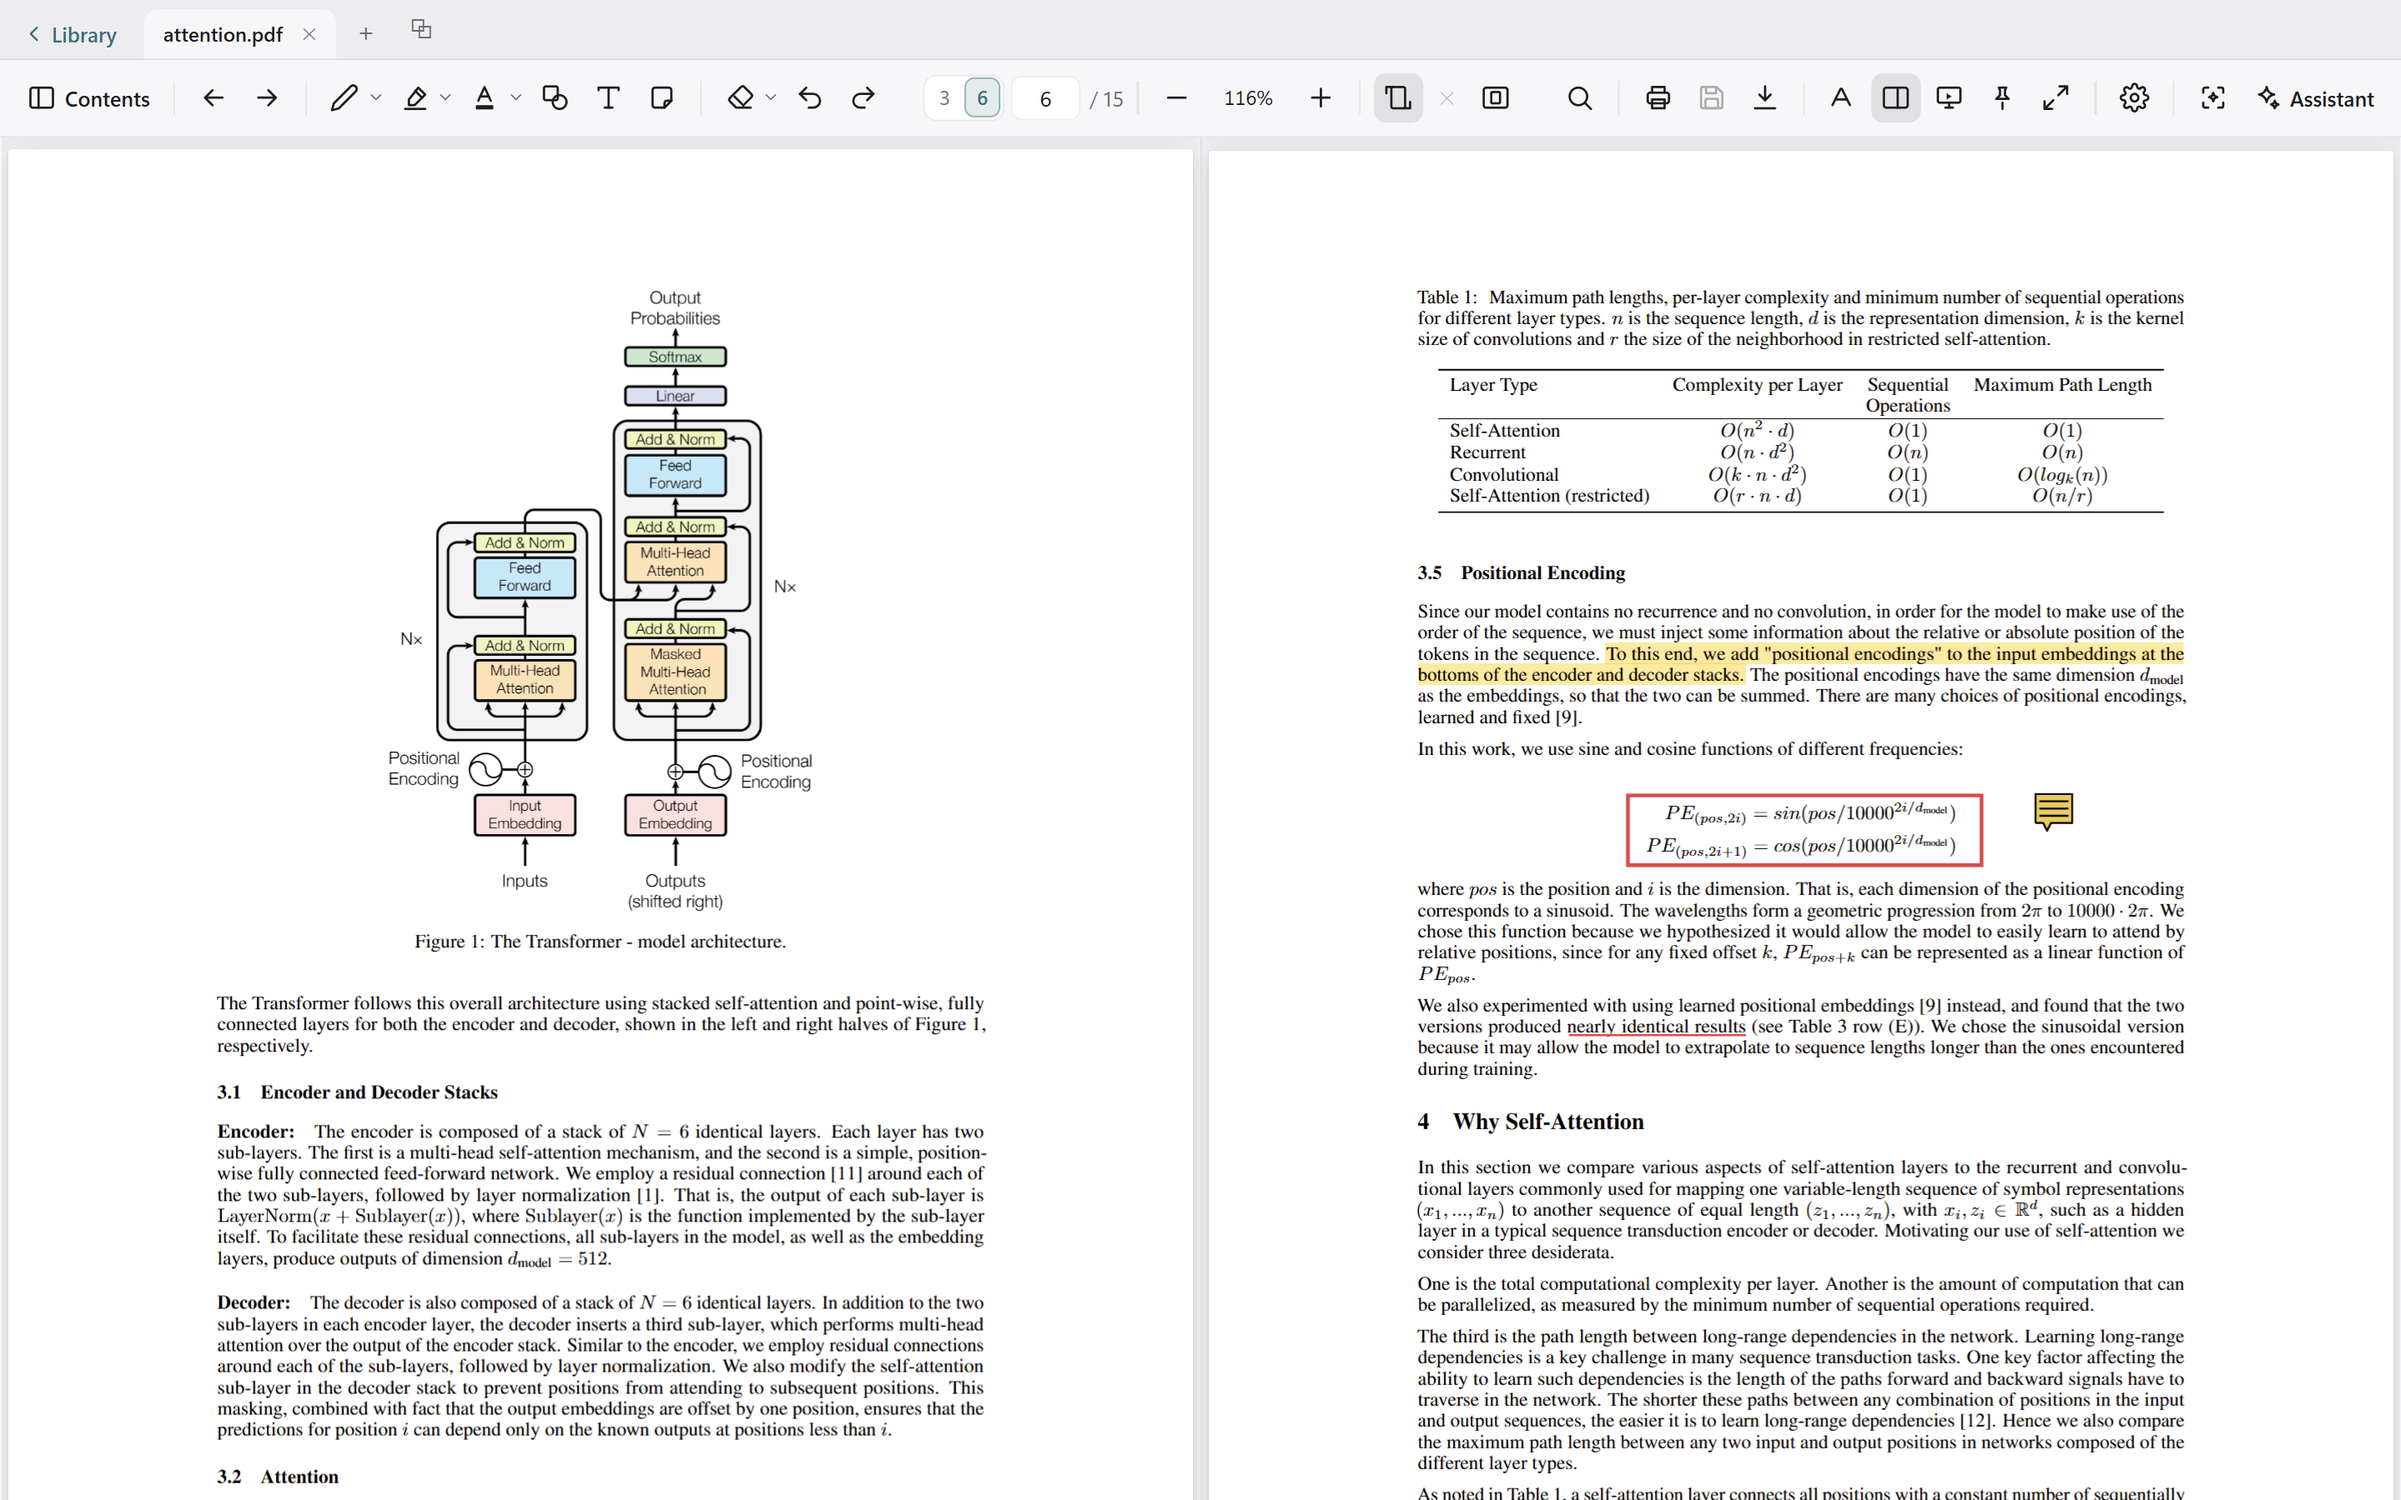
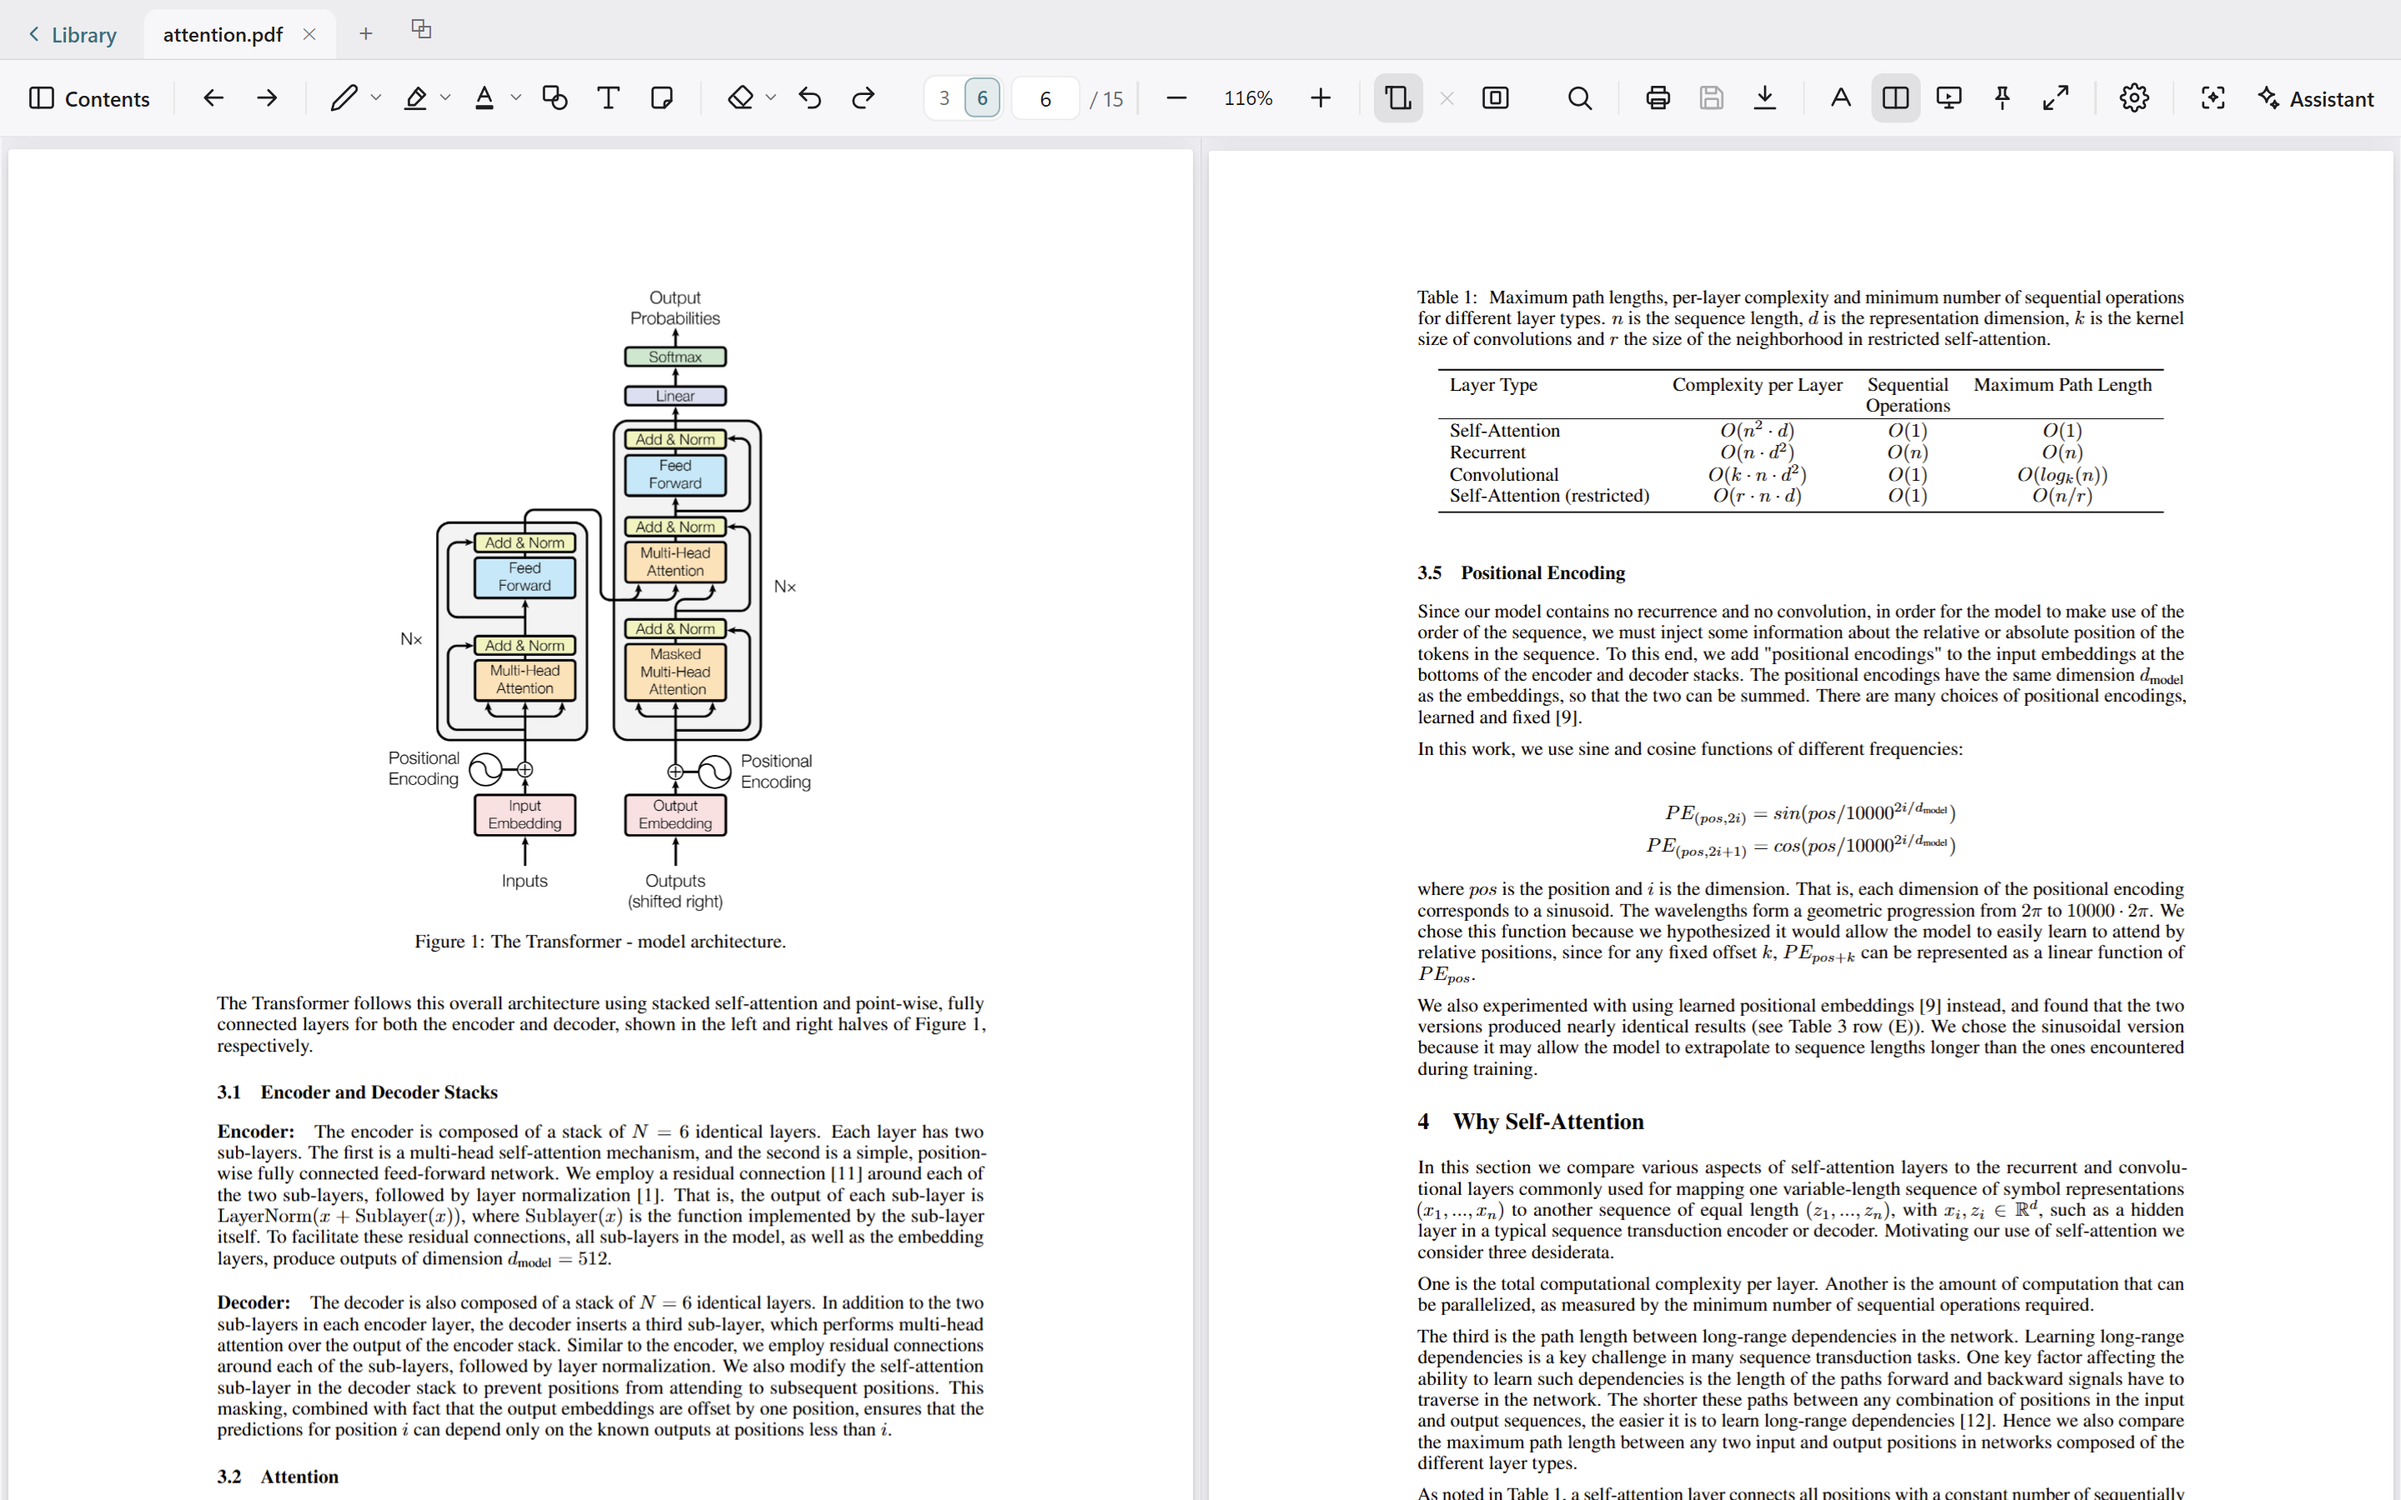
chore(shoot): hide the demo doc's own marks, and show the two gestures that matter
Four things the frames were getting wrong, all of them Emil's eye.

The house PDF carries his own old annotations — a highlight, a note icon, a red
box — and they turned up in shots that have nothing to do with annotating. Every
shot now starts with annotations hidden (the app's own H), and only the ones that
are ABOUT marking up turn them back on.

The annotation shot was the toolbar's highlighter popover. But the toolbar is the
second way to reach those tools; the first is selecting the text, which also
carries comment, note, copy, dictionary, translate and the assistant's actions on
the selection. That menu is the shot now. It is tall enough to flip up over the
toolbar if anchored low on the page, so the sentence is chosen in the upper third
and the framing is asserted.

The citation shot widened the assistant panel far enough to look better but not
far enough to fix anything: the formulas still had a sideways scrollbar. It now
widens until the maths measurably fits, and fails if it cannot. Well-set
equations in a reading app are an implicit selling point — half of one is not.

The figure answer has no maths, so that shot resets the panel to its default
width instead: what the assistant looks like out of the box. And a new frame
before it catches the crop tool mid-drag, marquee on screen — the only moment it
is visible, and the step the finished conversation cannot show.

Also: the split-view icon's divider now sits dead centre. The two columns became
[…]

Changed region(s): [[0.5938, 0.4044, 0.9062, 0.4667], [0.8125, 0.5289, 0.875, 0.56]]

diff --git a/src/renderer/src/components/icons.tsx b/src/renderer/src/components/icons.tsx
@@ -559,7 +559,9 @@ export const IconView = (p: IconProps): React.JSX.Element => (
 export const IconSplit = (p: IconProps): React.JSX.Element => (
   <Svg {...p}>
     <rect x="2.5" y="4" width="19" height="16" rx="2" />
-    <path d="M13.5 4v16" />
+    {/* Dead centre of the frame (2.5 + 19/2), not off to one side: the two
+        columns are equals, and the icon is the first place that is claimed. */}
+    <path d="M12 4v16" />
   </Svg>
 )
 

diff --git a/README.md b/README.md
@@ -165,10 +165,13 @@ one, the table it rests on somewhere else. Press **S** and you get both.
 
 **Annotation**
 
-![Annotation tools](docs/screenshots/annotations.png)
+![Selecting text brings up the markup menu — colours, comment, note, and the assistant's actions on the selection](docs/screenshots/annotations.png)
 
-- Highlight, underline, strikeout and squiggly, with labeled colour rows and custom hex
-  colours
+- **Select text and the menu comes to you**: highlight, underline, strikeout and squiggly
+  in one row each, a comment or a note, copy, dictionary, translate — and the assistant's
+  actions on exactly what you selected. The toolbar has the same tools for when you want
+  to mark several passages in a row; the selection menu is for the one in front of you
+- Labeled colour rows and custom hex colours
 - Pen and marker with hold-to-straighten: hold still mid-stroke and the line snaps
   straight
 - **Colour, thickness and opacity per tool**, remembered between sessions. A «Standard»
@@ -229,7 +232,9 @@ work, so the chips are the feature — the prose around them is just delivery.
   and watch your usage. List prices change after an app ships; a number in here would
   quietly stop matching your bill, and only your provider knows the real one
 
-![Explain a figure — the region dragged out of the page sits in the chat above the answer describing it](docs/screenshots/assistant_figure.png)
+![Dragging a box around a figure — the crop tool while you are using it](docs/screenshots/assistant_snip.png)
+
+![Explain a figure — the region you marked sits in the chat above the answer describing it](docs/screenshots/assistant_figure.png)
 
 **Language and themes**
 
